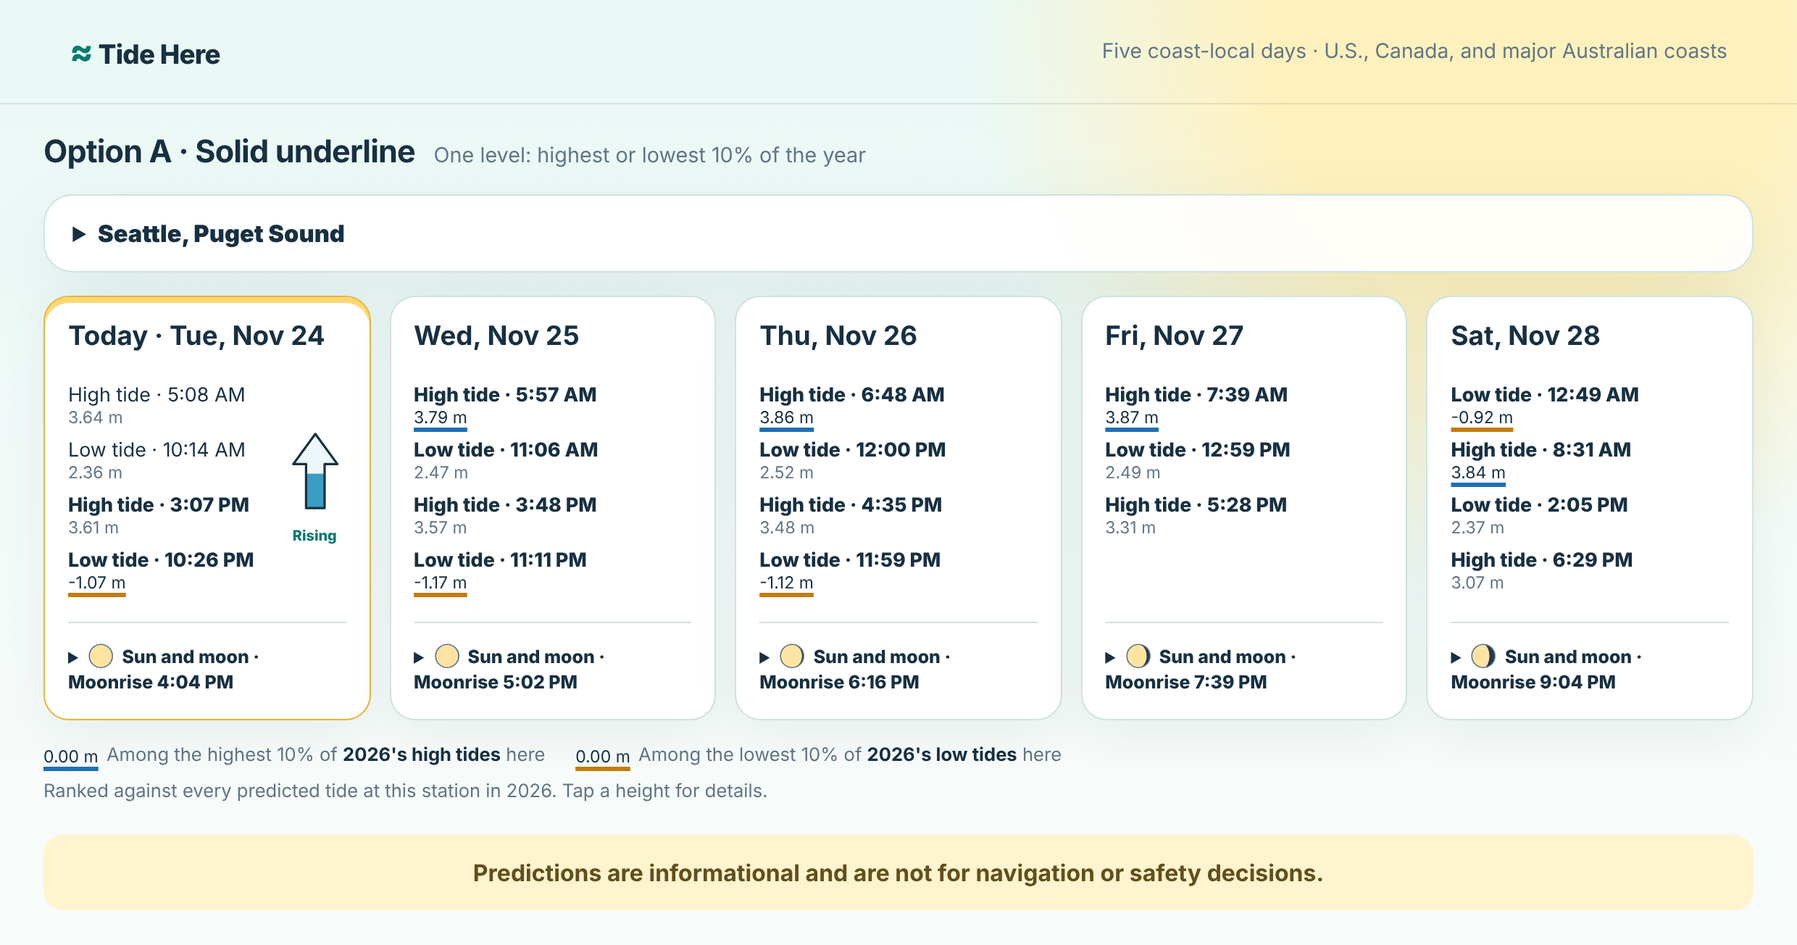
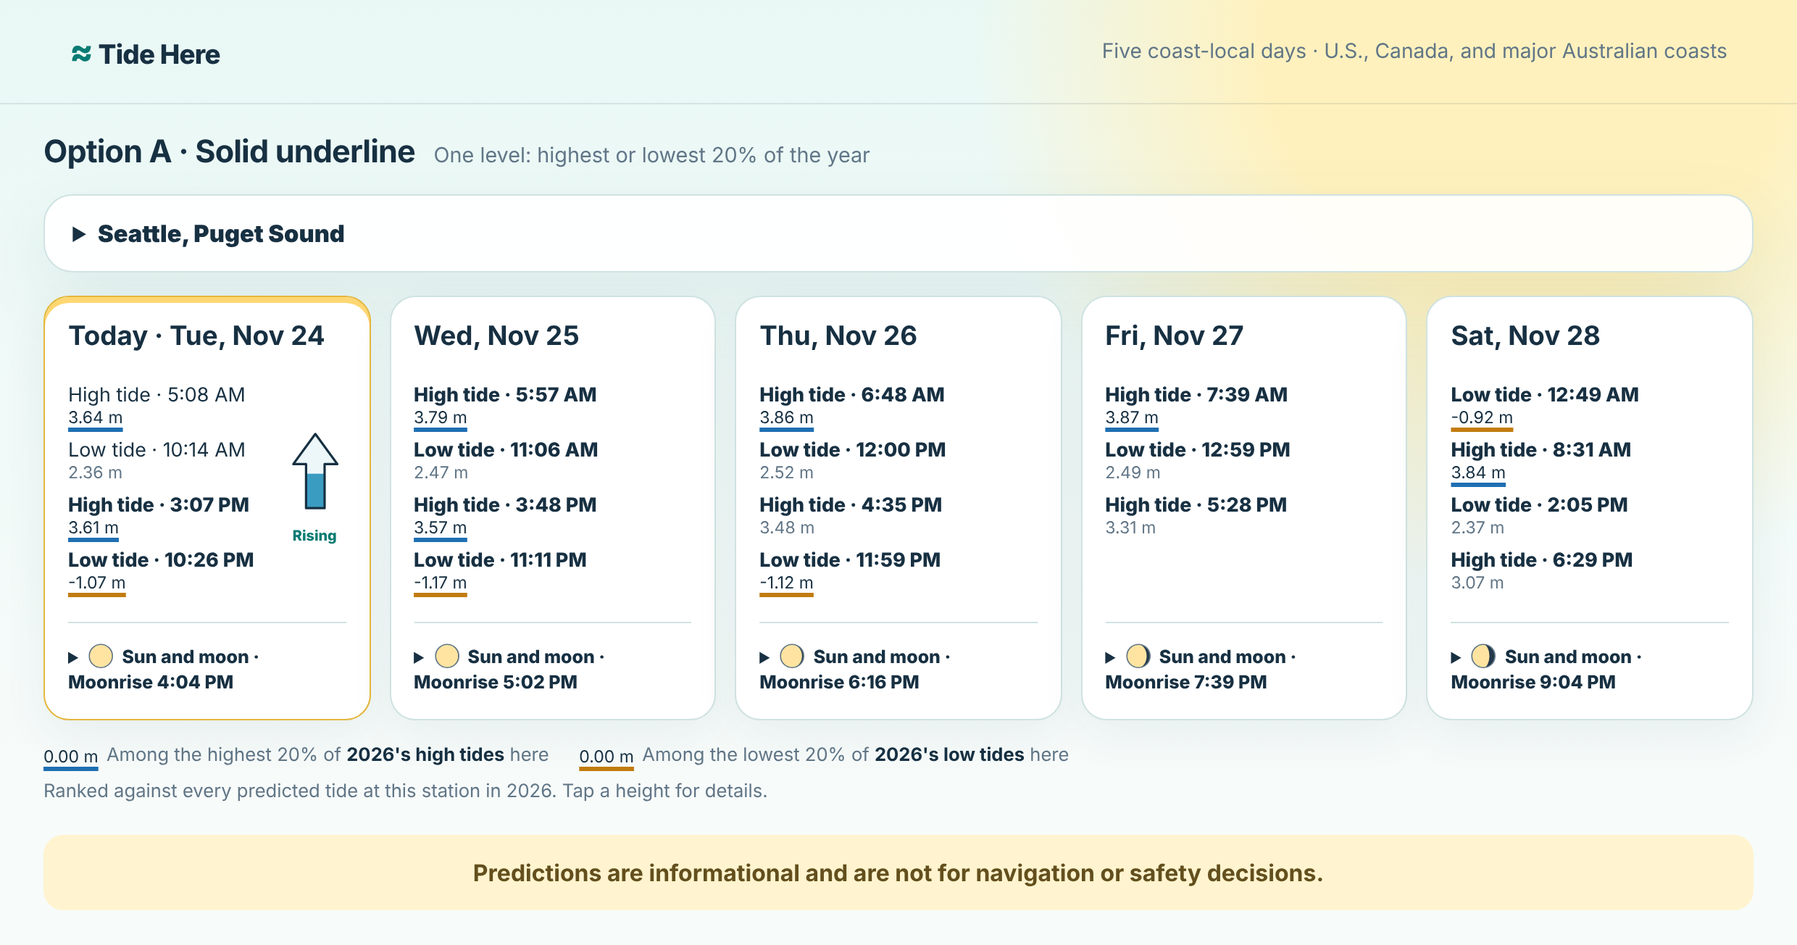
Record the extremity-indicator presentation choice
The user chose Option B (two underline weights), two levels at 20% and 5%,
and blue and amber. Records the decision, unblocks extremity-indicators,
updates the specification and re-renders the mockups at the chosen levels.

Claude-Session: https://claude.ai/code/session_01BRyVRsH2nWpr3hMm44B9kT

diff --git a/initiatives/tide-here/work/phase-15/mockups/mockup.html b/initiatives/tide-here/work/phase-15/mockups/mockup.html
@@ -94,12 +94,12 @@
   </main>
   <script>
     const OPTIONS = {
-      A: ['Option A · Solid underline', 'One level: highest or lowest 10% of the year'],
-      B: ['Option B · Two underline weights', 'Thin: top/bottom 10% · Thick and bold: top/bottom 2%'],
-      C: ['Option C · Wavy underline', 'Pale wave: top/bottom 10% · Strong wave: top/bottom 2%'],
+      A: ['Option A · Solid underline', 'One level: highest or lowest 20% of the year'],
+      B: ['Option B · Two underline weights', 'Thin: top/bottom 20% · Thick and bold: top/bottom 5%'],
+      C: ['Option C · Wavy underline', 'Pale wave: top/bottom 20% · Strong wave: top/bottom 5%'],
       D: ['Option D · Underline with a word', 'Underline plus a short label saying how rare it is'],
       E: ['Option E · Year-range bar', 'Every height gets a small bar; the ends light up when extreme'],
-      F: ['Option F · Highlighter', 'Tinted background instead of an underline; deeper tint for top/bottom 2%']
+      F: ['Option F · Highlighter', 'Tinted background instead of an underline; deeper tint for top/bottom 5%']
     };
     const data = window.MOCKUP_DATA;
     const params = new URLSearchParams(location.search);
@@ -117,7 +117,7 @@
       : `Among the lowest ${t.top}% of ${data.year}'s low tides here`;
 
     // Year range for option E: lowest low to highest high, from the quantile table ends.
-    const lo = data.thresholds.low[0] - 0.15, hi = data.thresholds.high[10] + 0.1;
+    const lo = data.thresholds.low[0] - 0.15, hi = data.thresholds.high[12] + 0.1;
     const pos = (v) => Math.max(0, Math.min(100, 100 * (v - lo) / (hi - lo)));
 
     function heightNode(t) {
@@ -128,14 +128,14 @@
       if (option === 'D') {
         node.append(el('span', 'num', t.height));
         if (flagged) {
-          const word = t.kind === 'high' ? (t.tier === 'exceptional' ? 'Top 2%' : 'Very high') : (t.tier === 'exceptional' ? 'Lowest 2%' : 'Very low');
+          const word = t.kind === 'high' ? (t.tier === 'exceptional' ? 'Top 5%' : 'Very high') : (t.tier === 'exceptional' ? 'Lowest 5%' : 'Very low');
           const tag = el('span', 'tag', word); tag.dataset.kind = t.kind; node.append(tag);
         }
       } else if (option === 'E') {
         node.append(el('span', 'num', t.height));
         const bar = el('span', 'range');
-        const lowZone = el('span', 'zone low'); lowZone.style.width = `${pos(data.thresholds.low[3])}%`;
-        const highZone = el('span', 'zone high'); highZone.style.width = `${100 - pos(data.thresholds.high[7])}%`;
+        const lowZone = el('span', 'zone low'); lowZone.style.width = `${pos(data.thresholds.low[4])}%`;
+        const highZone = el('span', 'zone high'); highZone.style.width = `${100 - pos(data.thresholds.high[8])}%`;
         const dot = el('span', `dot${flagged ? ` ${t.kind}` : ''}`); dot.style.left = `${pos(t.value)}%`;
         bar.append(lowZone, highZone, dot); node.append(bar);
       } else {
@@ -209,12 +209,12 @@
     const txt = (s) => document.createTextNode(s);
     if (singleTier || option === 'D' || option === 'E') {
       legend.append(
-        item(sw('high', 'notable'), txt('Among the highest 10% of '), el('b', null, `${data.year}'s high tides`), txt(' here')),
-        item(sw('low', 'notable'), txt('Among the lowest 10% of '), el('b', null, `${data.year}'s low tides`), txt(' here')));
+        item(sw('high', 'notable'), txt('Among the highest 20% of '), el('b', null, `${data.year}'s high tides`), txt(' here')),
+        item(sw('low', 'notable'), txt('Among the lowest 20% of '), el('b', null, `${data.year}'s low tides`), txt(' here')));
     } else {
       legend.append(
-        item(sw('high', 'notable'), txt('Highest 10%')), item(sw('high', 'exceptional'), txt('Highest 2% of high tides')),
-        item(sw('low', 'notable'), txt('Lowest 10%')), item(sw('low', 'exceptional'), txt('Lowest 2% of low tides')));
+        item(sw('high', 'notable'), txt('Highest 20%')), item(sw('high', 'exceptional'), txt('Highest 5% of high tides')),
+        item(sw('low', 'notable'), txt('Lowest 20%')), item(sw('low', 'exceptional'), txt('Lowest 5% of low tides')));
     }
     legend.append(el('span', null, `Ranked against every predicted tide at this station in ${data.year}. Tap a height for details.`));
   </script>

diff --git a/initiatives/tide-here/work/phase-15/README.md b/initiatives/tide-here/work/phase-15/README.md
@@ -1,9 +1,9 @@
 # Phase 15: particularly high and low tide indicators — specification
 
-Status: **proposed, not built.** This document specifies the feature and records
-the measurements behind it. No application code has changed. The mockups in
-`mockups/` are for choosing a presentation; §8 lists the decisions that are
-still open.
+Status: **specified, not built.** This document specifies the feature and records
+the measurements behind it. No application code has changed. The user chose the
+presentation, levels, thresholds and colours on 2026-11-24 (§8, and
+`../../decisions.md`): Option B, two levels at 20% and 5%, blue and amber.
 
 ## 1. What the user sees
 
@@ -15,8 +15,8 @@ low tide, at that station gets a coloured mark under the number:
 - **amber** under a particularly low low tide;
 - nothing under every other height.
 
-A short legend under the cards says what the marks mean, and tapping (or
-hovering, or focusing) a marked height gives the exact statement, for example
+A short legend under the cards says what the marks mean, and clicking or
+tapping a marked height opens a small box with the exact statement, for example
 *"Among the lowest 1% of 2026's low tides here (705 predicted low tides in
 2026). Astronomical prediction only: wind, pressure and storm surge can make the
 water higher or lower."*
@@ -33,13 +33,16 @@ A height is ranked against **every predicted tide of the same type (high or
 low) at the same station during the same calendar year**, using the same
 provider, datum and unit as the number on the page.
 
-- **Particularly high:** among the highest 10% of that year's high tides.
-- **Particularly low:** among the lowest 10% of that year's low tides.
-- **Optional second level:** among the highest or lowest 2% (§8, decision 2).
+- **Particularly high:** among the highest 20% of that year's high tides
+  (thin underline).
+- **Particularly low:** among the lowest 20% of that year's low tides
+  (thin underline).
+- **Second level:** among the highest or lowest 5% (thick underline and bold
+  number).
 
 The rank shown to the user is *N* = the share of same-type tides in the year that
 are at least as extreme, rounded up to a whole percent (minimum 1%). A height is
-marked when *N* ≤ 10, and reaches the second level when *N* ≤ 2.
+marked when *N* ≤ 20, and reaches the second level when *N* ≤ 5.
 
 Reasons for this definition:
 
@@ -56,10 +59,12 @@ Reasons for this definition:
    Mexico, Western Australia) the one daily high is compared with the other
    daily highs. No regime-specific rule is needed.
 4. **It produces a useful number of marks.** With about 705 high tides a year
-   at a semidiurnal station, the top 10% is about 70 high tides — roughly the
-   highest one to three tides around each spring tide, and no marks during neap
-   weeks. The top 2% (about 14 a year) picks out the perigean spring tides that
-   people call king tides.
+   at a semidiurnal station, the top 20% is about 140 high tides — the larger
+   tides of most spring-tide periods, and no marks during neap weeks. The top 5%
+   (about 35 a year) picks out the largest spring tides, including the perigean
+   spring tides that people call king tides. Across a year about one tide in five
+   is marked, unevenly: several a day around a big spring tide, none for days
+   around a neap tide.
 5. **It can be explained in one sentence**, which the tooltip uses verbatim.
 
 A calendar year is used, not a rolling 365 days, so a station's threshold record
@@ -72,15 +77,16 @@ thresholds is a few centimetres.
 
 NOAA Seattle (9447130), MLLW, 2026 — 705 highs and 705 lows:
 
-| | 1% | 2% | 10% | median | 90% | 98% | 99% |
+| | 1% | 5% | 20% | median | 80% | 95% | 99% |
 |---|---:|---:|---:|---:|---:|---:|---:|
-| High tides (m) | 2.26 | 2.30 | 2.59 | 3.27 | **3.65** | **3.84** | 3.91 |
-| Low tides (m) | **−1.17** | **−1.07** | **−0.49** | 0.81 | 2.38 | 2.59 | 2.65 |
+| High tides (m) | 2.26 | 2.42 | 2.86 | 3.27 | **3.54** | **3.74** | 3.91 |
+| Low tides (m) | −1.17 | **−0.80** | **−0.20** | 0.81 | 2.16 | 2.47 | 2.65 |
 
 For this week (24–28 November 2026, a full-moon perigean spring tide), that
-marks 5 of 10 high tides and all 5 nighttime low tides, which is what the
-mockups show. The 3.64 m high at 5:08 AM today is in the highest 11% and is
-**not** marked — the threshold is a fixed line, so a near miss gets no mark.
+marks 7 of 10 high tides (4 at the 5% level) and all 4 nighttime low tides (all
+at the 5% level), which is what `mockups/option-B.png` shows. A spring-tide week
+is the busiest case; the 3.48 m high at 4:35 PM on Thursday is in the highest 29%
+and is not marked, and in a neap week nothing is marked.
 
 ### 2.3 Alternatives considered
 
@@ -106,16 +112,17 @@ Every source produces the same small record for a station and year:
   "unit": "m",
   "year": 2026,
   "computedAt": "2026-11-24T20:31:05Z",
-  "probabilities": [0.01, 0.02, 0.05, 0.1, 0.25, 0.5, 0.75, 0.9, 0.95, 0.98, 0.99],
-  "high": [2.26, 2.302, 2.42, 2.594, 2.933, 3.265, 3.501, 3.649, 3.741, 3.84, 3.907],
-  "low": [-1.165, -1.074, -0.801, -0.493, -0.057, 0.81, 1.972, 2.378, 2.473, 2.591, 2.653],
+  "probabilities": [0.01, 0.02, 0.05, 0.1, 0.2, 0.25, 0.5, 0.75, 0.8, 0.9, 0.95, 0.98, 0.99],
+  "high": [2.26, 2.302, 2.42, 2.594, 2.856, 2.933, 3.265, 3.501, 3.542, 3.649, 3.741, 3.84, 3.907],
+  "low": [-1.165, -1.074, -0.801, -0.493, -0.196, -0.057, 0.81, 1.972, 2.155, 2.378, 2.473, 2.591, 2.653],
   "highCount": 705,
   "lowCount": 705
 }
 ```
 
-About 400 bytes. The page uses `high[7]` / `low[3]` (10%) and `high[9]` /
-`low[1]` (2%) for the marks, and interpolates between quantiles for the "among
+About 450 bytes. The page uses the 0.8 high and 0.2 low quantiles (20%) and
+the 0.95 high and 0.05 low quantiles (5%) for the marks, looked up by
+probability rather than by array position, and interpolates between quantiles for the "among
 the highest N%" sentence. Quantiles are computed from the sorted heights with
 the same index rule as `mockups/build-data.mjs`. The record never carries
 coordinates, place names or user input.
@@ -174,12 +181,12 @@ marks are added to that rendering when their data is available.
 ### 5.2 Cache
 
 - Key: `tide-here.extremity.v1.<provider>.<stationId>.<datum>.<year>`.
-- Value: the §3 record, about 400 bytes.
+- Value: the §3 record, about 450 bytes.
 - Lifetime: until the end of its year plus 31 days (so the year-boundary rule
   can still use it). A record never changes during its year, so there is no
   refresh.
 - Bound: at most 50 records; on overflow the oldest by `computedAt` is removed.
-  50 records are about 20 KB.
+  50 records are about 23 KB.
 - Like every other Tide Here cache, reads and writes are wrapped so a full or
   blocked local storage only means no marks.
 - The raw year of predictions is never stored, only the record.
@@ -218,26 +225,28 @@ move anything:
 
 | Situation | Added time to first forecast | Marks visible |
 |---|---|---|
-| Australian Bureau port or FES point | ≈0 (≈400 bytes added to `/forecast`) | With the forecast |
+| Australian Bureau port or FES point | ≈0 (≈450 bytes added to `/forecast`) | With the forecast |
 | NOAA or CHS, record cached | 0 | With the forecast |
 | NOAA or CHS, first view of the station this year | 0 | About 0.4–1.5 s after the forecast |
 | Year request fails or times out (10 s) | 0 | Never; source details say "Extremity marks unavailable for this station" |
 
 ## 6. Presentation
 
-The candidate designs are in `mockups/`. All use real NOAA Seattle predictions
-for 24–28 November 2026 and the live page's own stylesheet.
+**Chosen: Option B** (2026-11-24). The candidate designs are kept in
+`mockups/` for the record, all re-rendered at the chosen 20% / 5% levels. All use
+real NOAA Seattle predictions for 24–28 November 2026 and the live page's own
+stylesheet.
 
 | Option | Image | Levels | Summary |
 |---|---|---|---|
 | A | `mockups/option-A.png`, `mockups/option-A-phone.png` | 1 | Solid 2.5 px underline, blue or amber. The simplest. |
-| B | `mockups/option-B.png`, `mockups/option-B-explanation.png` | 2 | Thin underline at 10%; thick underline and bold number at 2%. |
-| C | `mockups/option-C.png` | 2 | Wavy underline; pale at 10%, strong and bold at 2%. Reads as water. |
-| D | `mockups/option-D.png` | 2 | Underline plus a small label: "Very high", "Top 2%", "Very low", "Lowest 2%". Self-explaining but busier, and moves text on a cold cache (§5.4). |
+| B | `mockups/option-B.png`, `mockups/option-B-explanation.png` | 2 | **Chosen.** Thin underline at 20%; thick underline and bold number at 5%. |
+| C | `mockups/option-C.png` | 2 | Wavy underline; pale at 20%, strong and bold at 5%. Reads as water. |
+| D | `mockups/option-D.png` | 2 | Underline plus a small label: "Very high", "Top 5%", "Very low", "Lowest 5%". Self-explaining but busier, and moves text on a cold cache (§5.4). |
 | E | `mockups/option-E.png` | 1 | A small bar under every height showing where it falls in the year's range; the dot turns blue or amber when marked. Most informative, most visual weight. |
 | F | `mockups/option-F.png` | 2 | Highlighter tint behind the number instead of an underline. |
 
-Common rules, whichever option is chosen:
+Rules for the chosen design:
 
 - **Colour.** Blue (`#1f6fb2`) for high and amber (`#c27c0e`) for low, added to
   the stylesheet as `--extreme-high` and `--extreme-low`. Both are at least 3:1
@@ -247,10 +256,13 @@ Common rules, whichever option is chosen:
 - **Colour is not the only signal.** Each marked height carries an accessible
   description (the §1 sentence) for screen readers, and the legend explains the
   colours in words.
-- **Explanation on demand.** A marked height is focusable and opens the
-  explanation on tap, click, hover or keyboard focus (`mockups/option-B-explanation.png`).
-  A native `title` attribute alone is not enough because it does not appear on
-  touch screens.
+- **Explanation on click or tap.** A marked height is a button. Clicking or
+  tapping it opens the explanation box beside it
+  (`mockups/option-B-explanation.png`); clicking it again, clicking elsewhere, or
+  pressing Escape closes it, and only one box is open at a time. Keyboard users
+  reach it with Tab and open it with Enter or Space. On a device with a mouse,
+  hovering also shows it. A native `title` attribute alone is not enough because
+  it does not appear on touch screens. Unmarked heights stay plain text.
 - **Legend.** One line under the cards, shown only when at least one height is
   marked, plus the record's year and that the ranking uses predicted tides at
   this station.
@@ -280,22 +292,19 @@ Common rules, whichever option is chosen:
 | Year boundary | Record for the year of the first displayed day (§2.1) |
 | Local storage unavailable | Marks still appear for stored providers; NOAA/CHS make the year request each time a station is shown, still in the background |
 
-## 8. Decisions for the user
+## 8. Decisions
 
-1. **Which presentation:** A, B, C, D, E or F (§6). Recommendation: **B** —
-   it keeps the plain underline the request described, adds a visible
-   difference for king-tide-level extremes, and moves nothing on a cold cache.
-   A is the choice if one level is enough.
-2. **One level or two:** 10% only, or 10% plus 2%. Recommendation: two.
-3. **Thresholds:** 10% / 2% are proposed. 15% marks more tides around each
-   spring tide; 5% marks only the larger springs.
-4. **Colours:** blue for high and amber for low, as mocked. An alternative is
-   coral for high, already in the palette, which reads as a warning — more
-   suitable if the main concern is flooding at high water.
+Settled by the user on 2026-11-24 and recorded in `../../decisions.md`:
+
+1. **Presentation:** Option B, two underline weights. The explanation opens
+   when a marked number is clicked or tapped (§6).
+2. **Levels:** two.
+3. **Thresholds:** 20% and 5%. The proposal had been 10% and 2%.
+4. **Colours:** blue for high and amber for low, as mocked.
 
 ## 9. Validation
 
-- Unit tests for the quantile rule, the *N*% sentence, the 10%/2% boundaries and
+- Unit tests for the quantile rule, the *N*% sentence, the 20%/5% boundaries and
   ties, using a committed one-year NOAA fixture and a committed CHS fixture.
 - Record rejection for a datum, unit, station or year mismatch, and for a
   short record.
@@ -323,7 +332,9 @@ Common rules, whichever option is chosen:
 - `mockups/build-data.mjs` — builds `mockup-data.json` from a NOAA one-year
   response, using the live page's own day-model, astronomy and formatting code.
 - `mockups/mockup.html` — renders the six options with `../../phase-6/styles.css`.
-- `mockups/render.mjs` — writes the PNGs with the pre-installed Playwright.
+- `mockups/render.mjs` — writes the PNGs with the pre-installed Playwright; set
+  `CHROMIUM_PATH=/opt/pw-browsers/chromium` when the installed Playwright does
+  not find its own browser.
 - `mockups/*.png` — the mockups listed in §6.
 
 This folder is not staged into the deployed Site (`phase-13/scripts/stage-static.mjs`

diff --git a/initiatives/tide-here/decisions.md b/initiatives/tide-here/decisions.md
@@ -278,3 +278,47 @@ filled rising/falling arrow beside today's tide times, a moon-phase icon before
 “Sun and moon”, investigation of slow Australian output, a Test deployment,
 and a ready-for-review PR. Production release and merging remain outside this
 request. There is no blocked todo to complete for this decision.
+
+## 2026-11-24 — How should particularly high and low tides be shown?
+
+**Option B, two levels, at 20% and 5%, in blue and amber.** The user answered
+the four questions in `work/phase-15/README.md` §8:
+
+1. Presentation: “Option B. I presume the explanation is displayed when the
+   relevant tide number is clicked?” Yes: a marked height opens its
+   explanation when clicked or tapped, and also on hover with a mouse and with
+   Enter or Space from the keyboard.
+2. Levels: two.
+3. Thresholds: “I prefer 20% and 5%.” A high tide among the highest 20% of the
+   station's predicted high tides for the year (or a low tide among the lowest
+   20% of its low tides) gets a thin underline; the highest or lowest 5% get a
+   thick underline and a bold number.
+4. Colours: “As shown” — blue for high, amber for low.
+
+### Alternatives considered
+
+| Option | Strengths | Weaknesses |
+|---|---|---|
+| A, one solid underline | Simplest | No difference between a large spring tide and a king tide |
+| **B, two underline weights** *(chosen)* | Keeps the underline the request described; shows two levels; moves no text when marks arrive late | Two levels to explain in the legend |
+| C, wavy underline | Reads as water | Needs space reserved under every height |
+| D, underline plus a word | Explains itself | Busier; moves text when marks arrive after the first render |
+| E, year-range bar | Most informative | Most visual weight; a bar under every height |
+| F, highlighter tint | Very visible | Not an underline |
+
+The proposal had been 10% and 2%. At 20% and 5% about one tide in five is
+marked over a year, concentrated around spring tides: in the 24–28 November
+2026 Seattle example, 7 of 10 high tides and all 4 nighttime low tides are
+marked, 8 of them at the 5% level. Neap weeks still show no marks.
+
+### What this settles, and what it does not
+
+- Settles the presentation, the two levels, the thresholds and the colours. The
+  specification and the Option B mockups are updated to 20% and 5%.
+- Unblocks `extremity-indicators`; the indicator still has to be built.
+- Does not authorize building it in this pull request, a test deployment, or a
+  production release.
+- The provider work in the specification is unchanged: NOAA and CHS in the
+  browser, Bureau records at import, FES records on demand or precomputed. The
+  on-demand-versus-sidecar choice for FES is an implementation detail recorded in
+  the specification, not a question for the user.

diff --git a/initiatives/tide-here/spec.md b/initiatives/tide-here/spec.md
@@ -379,21 +379,23 @@ user history or cache caller-specific forecast responses at the edge.
 See `work/phase-14/README.md` for the measured alternatives, reproducible
 comparisons, limitations, activation and rollback instructions.
 
-## 2026-11-24 particularly high and low tides (proposed)
+## 2026-11-24 particularly high and low tides (specified)
 
-Proposed, not built. A tide height that is among the highest 10% of the year's
-predicted high tides at that station, or the lowest 10% of its low tides, gets a
-coloured underline (blue for high, amber for low), with an optional second level
-at 2%. Ranking each height only against the same station's predictions for the
-same year needs no datum conversion and works in semidiurnal, mixed and diurnal
-regimes.
+Specified, not built. A tide height that is among the highest 20% of the year's
+predicted high tides at that station, or the lowest 20% of its low tides, gets a
+thin coloured underline (blue for high, amber for low); the highest or lowest 5%
+get a thick underline and a bold number. Clicking or tapping a marked height
+explains the mark. Ranking each height only against the same station's
+predictions for the same year needs no datum conversion and works in
+semidiurnal, mixed and diurnal regimes. The user chose this presentation and
+these levels on 2026-11-24 (`decisions.md`).
 
 The indicator never delays the forecast. NOAA and CHS thresholds come from one
 background request for the station's year of high/low predictions (measured at
-11.6 KB compressed for NOAA and 0.4–1.2 s), reduced to a 400-byte record cached
+11.6 KB compressed for NOAA and 0.4–1.2 s), reduced to a 450-byte record cached
 in local storage for the rest of the year. Bureau thresholds are computed at
 import and FES thresholds are precomputed per model point; both arrive inside
 the existing `/forecast` response.
 
-The full specification, measurements, alternatives considered, six presentation
-mockups and open decisions are in `work/phase-15/README.md`.
+The full specification, measurements, alternatives considered and mockups are
+in `work/phase-15/README.md`.

diff --git a/initiatives/tide-here/log.md b/initiatives/tide-here/log.md
@@ -370,3 +370,10 @@ high/low requests for NOAA Seattle and CHS Halifax and one-year FES extremes for
 the seven validation points, and rendered six presentation mockups from real
 Seattle predictions for 24–28 November 2026. Details are in
 `work/phase-15/README.md`; the presentation and threshold choices are open.
+
+## 2026-11-24 — Choose the extremity-indicator presentation
+
+The user chose Option B (two underline weights), two levels at 20% and 5%, and
+blue and amber. Recorded in `decisions.md`, updated `work/phase-15/README.md`
+and re-rendered the mockups at the chosen levels. `extremity-indicators` is now
+actionable.
